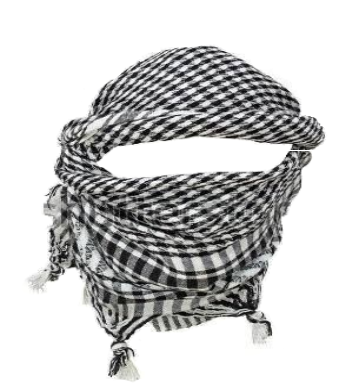
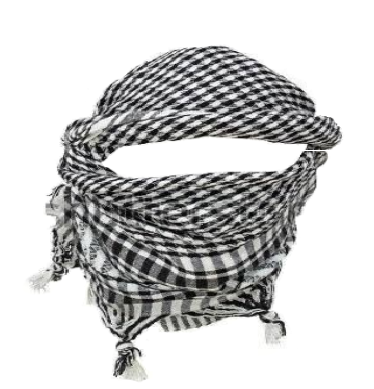
1

Changed region(s): [[0.1226, 0.1234, 0.9192, 0.9871]]

diff --git a/bot.py b/bot.py
@@ -3196,8 +3196,8 @@ CLOTHING_SHOP_ITEMS = [
         "image": "images/shop/mask.png",
         "slot": "head",
         "scale": 215,
-        "x": 300,
-        "y": 25,
+        "x": 290,
+        "y": 20,
     },
 ]
 
